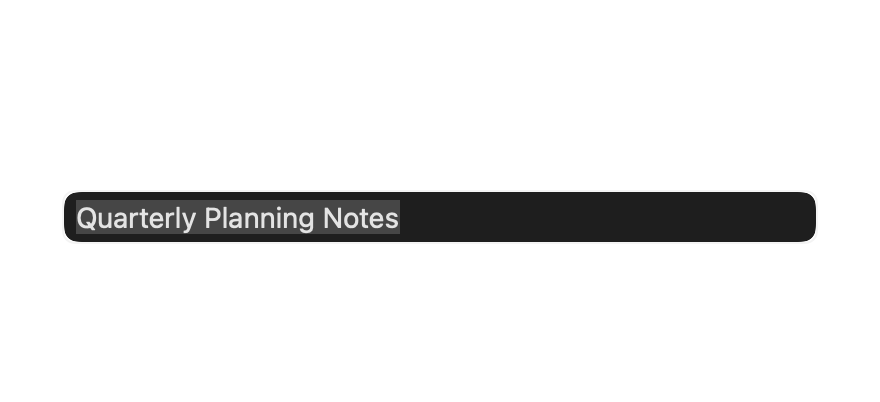
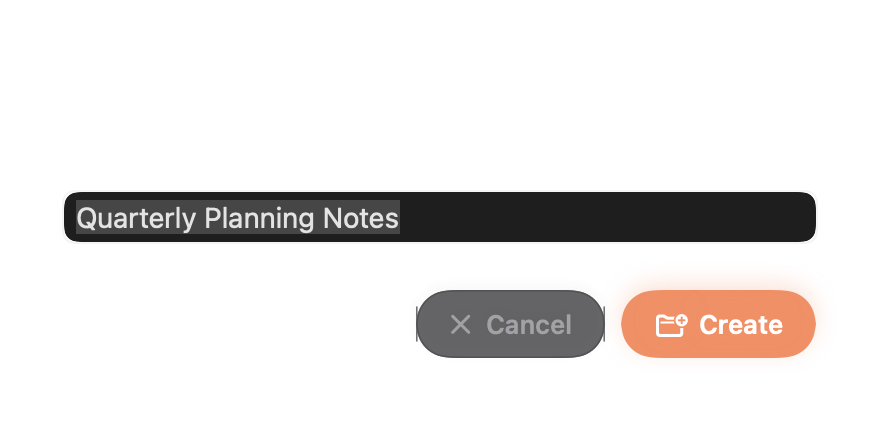
Match New Folder actions to Library design

Changed region(s): [[0.0614, 0.4478, 0.9511, 0.6269], [0.4602, 0.6567, 0.9511, 0.8657], [0.9205, 0.4776, 0.9511, 0.5075]]

diff --git a/Sources/MacParakeet/Views/Transcription/TranscriptionLibraryView.swift b/Sources/MacParakeet/Views/Transcription/TranscriptionLibraryView.swift
@@ -1195,13 +1195,22 @@ struct LibraryNewFolderDialog: View {
 
             HStack(spacing: DesignSystem.Spacing.sm) {
                 Spacer()
-                Button("Cancel", action: onCancel)
-                    .keyboardShortcut(.cancelAction)
-                    .parakeetAction(.secondary)
-                Button("Create", action: onCreate)
-                    .keyboardShortcut(.defaultAction)
-                    .parakeetAction(.primaryProminent)
-                    .disabled(isCreateDisabled)
+                LibraryActionButton(
+                    title: "Cancel",
+                    systemImage: "xmark",
+                    accessibilityHint: "Closes the New Folder sheet without creating a folder",
+                    action: onCancel
+                )
+                .keyboardShortcut(.cancelAction)
+
+                LibraryPrimaryActionButton(
+                    title: "Create",
+                    systemImage: "folder.badge.plus",
+                    isDisabled: isCreateDisabled,
+                    accessibilityHint: "Creates the folder at the current Library location",
+                    action: onCreate
+                )
+                .keyboardShortcut(.defaultAction)
             }
         }
         .padding(DesignSystem.Spacing.xl)
@@ -1456,6 +1465,9 @@ private struct LibraryFilterChip: View {
 /// lifts on hover.
 private struct LibraryPrimaryActionButton: View {
     let title: String
+    var systemImage = "plus"
+    var isDisabled = false
+    var accessibilityHint = "Starts a new transcription"
     let action: () -> Void
 
     @State private var isHovered = false
@@ -1463,7 +1475,7 @@ private struct LibraryPrimaryActionButton: View {
     var body: some View {
         Button(action: action) {
             HStack(spacing: 6) {
-                Image(systemName: "plus")
+                Image(systemName: systemImage)
                     .font(.system(size: 12, weight: .bold))
                 Text(title)
                     .font(DesignSystem.Typography.bodySmall.weight(.semibold))
@@ -1482,12 +1494,19 @@ private struct LibraryPrimaryActionButton: View {
             .animation(DesignSystem.Animation.hoverTransition, value: isHovered)
         }
         .buttonStyle(.plain)
+        .disabled(isDisabled)
+        .opacity(isDisabled ? 0.48 : 1)
         .onHover { hovering in
-            isHovered = hovering
+            isHovered = hovering && !isDisabled
         }
-        .pointingHandCursor(isActive: isHovered)
+        .onChange(of: isDisabled) { _, disabled in
+            if disabled {
+                isHovered = false
+            }
+        }
+        .pointingHandCursor(isActive: isHovered && !isDisabled)
         .accessibilityLabel(title)
-        .accessibilityHint("Starts a new transcription")
+        .accessibilityHint(accessibilityHint)
     }
 }
 

diff --git a/docs/visual-evidence/ticket-045/README.md b/docs/visual-evidence/ticket-045/README.md
@@ -4,8 +4,6 @@ Rendered from the production `LibraryNewFolderDialog` at its 440pt dialog width.
 
 ![New Folder dialog with focused full-width name field](new-folder-dialog.png)
 
-> The AppKit bitmap path does not composite the native button labels. Their white native control bounds are visible. This is a snapshot limitation; the production buttons are Cancel and Create.
-
 Please confirm visual approval before merge.
 
 Regenerate with:
